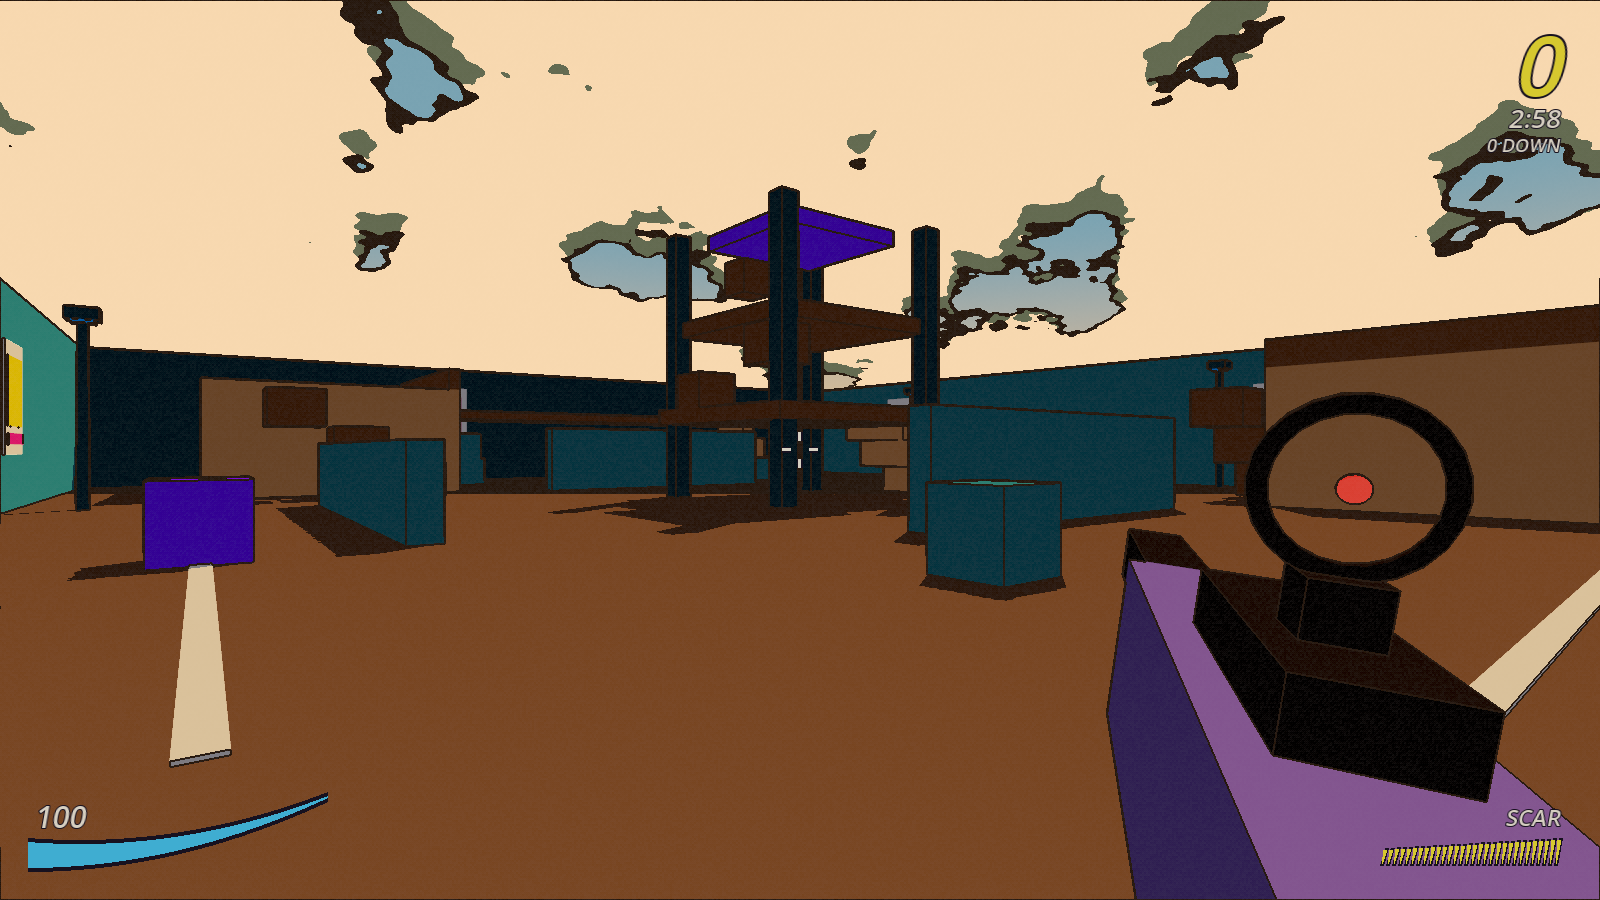
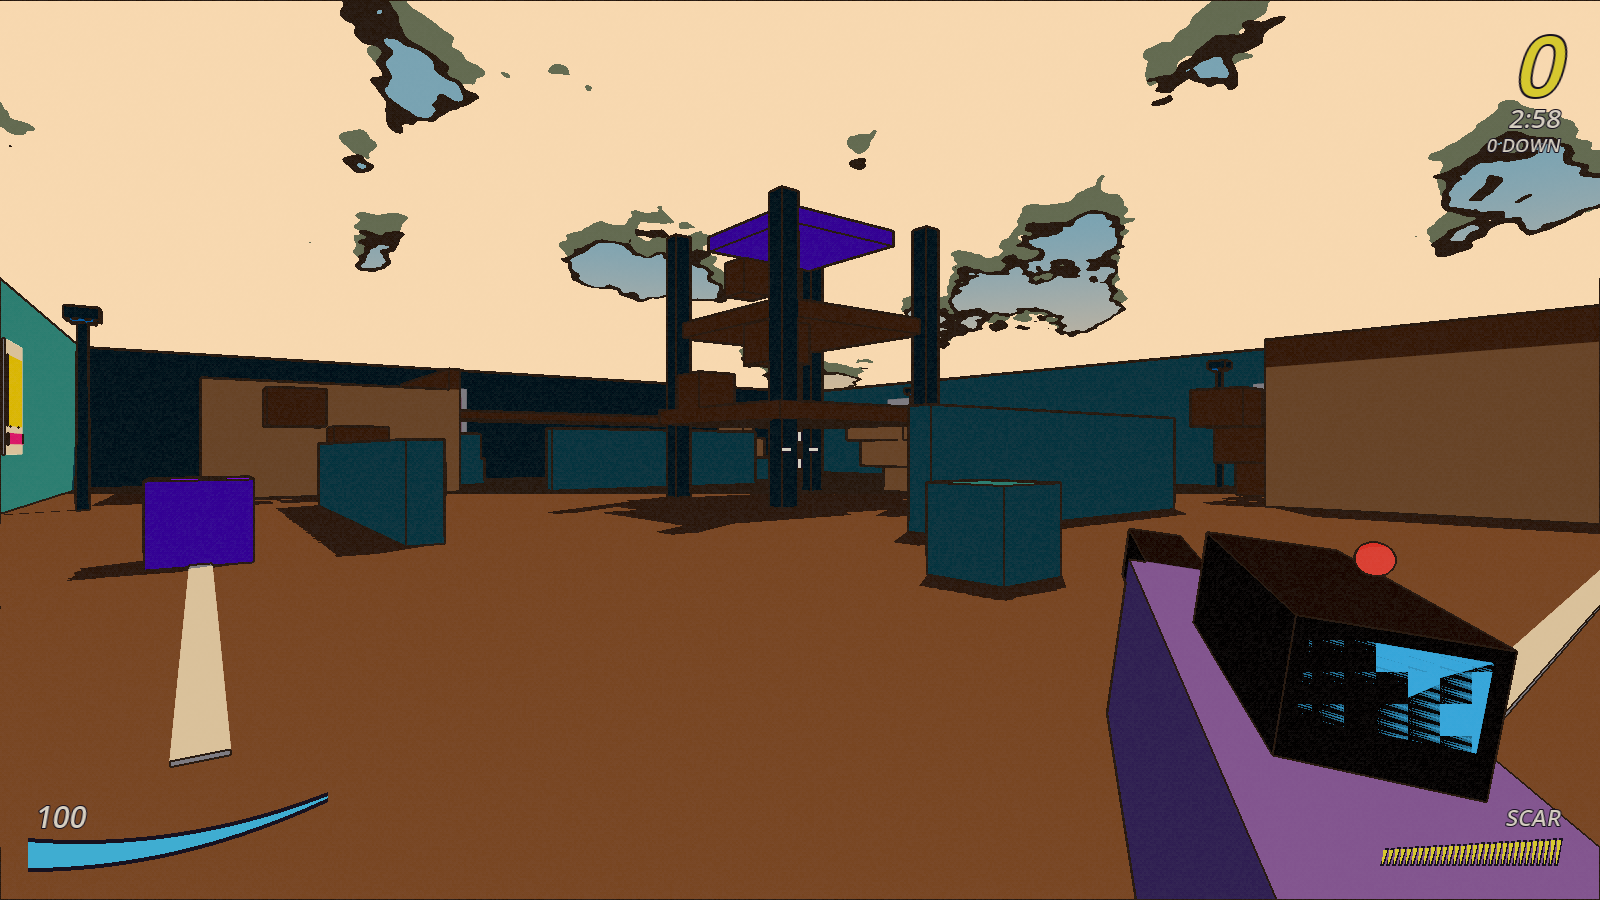
AR keeps its old sight with a red dot above it; wall-clock hitch logging
Sean preferred the boxy sight; the ring is gone, the cyan-window sight is
back as it was with an emissive red dot floating above, and the ADS pose
puts the dot on the camera axis. Frame hitches are measured with the wall
clock (Godot caps the process delta at a few physics steps, which hid a
2 s freeze); warm-cache runs show none at board/arena start, a cold cache
shows one 208 ms compile at the arena start.

Changed region(s): [[0.75, 0.4356, 0.9688, 0.84]]

diff --git a/DECISIONS.md b/DECISIONS.md
@@ -129,3 +129,5 @@ Append-only. One line per assumption: date, the decision, the reason. Newest at 
 - 2026-09-19 — Board space icons are flat stamps on the tile face instead of floating, spinning markers (Sean): a coin disc with rings, a wrapped gift (square with ink straps and a knot), a danger X on a red disc, a "?" lying flat on event tiles, a shield emblem on the safe spot; the start keeps its standing flag. Stamps are children of the tile so the fork hover lift carries them. Dice numbers are bolder: font 96 with a 16 px same-colour outline.
 - 2026-09-19 — Sean: "lets have them floating again, it looks ugly on the spot". The flat stamps lasted one build; the floating, spinning markers (coin, crate, spiked ball, "?" sign, shield dome, start flag) are back exactly as before. The bold die numbers stay.
 - 2026-09-19 — Sean: the far end of the sniper scope is black like the scope (it had reflective glass too); the eyepiece we look through keeps its glass. The AR's ADS was "blue and glitchy": the glowing cyan sight box sat right in front of the eye. It is now a red-dot sight, a ring on a rail with a tiny emissive red dot at its centre, and the ADS pose puts the ring's centre on the camera axis so you look through it; the HUD crosshair hides at full AR ADS.
+- 2026-09-19 — Sean: "i like the old scope of the AR more, all i asked for was a red dot". The ring sight lasted one build; the boxy sight with the cyan window is back as it was, with a tiny emissive red dot floating just above it, and the ADS pose puts that dot on the camera axis with the housing under it so the view is clear.
+- 2026-09-19 — The 2.28 s (board start) and 1.64 s (first arena) stalls in Sean's log did not reproduce: CPU build times are 4–17 ms (board view) and 2–31 ms (match); windowed runs show no hitch at those points with a warm shader cache, and with the cache deleted only a 208 ms first-use compile at the arena start plus the usual 0.7–1.1 s first frame at boot. `Game._process` now logs any wall-clock frame gap over 150 ms with the phase (Godot caps the delta it hands `_process` to a few physics steps, so a delta-based check missed freezes); his next log names the moment if it happens again. No warm-up pass was built: nothing measured justified it.

diff --git a/STATUS.md b/STATUS.md
@@ -272,6 +272,13 @@ Board icons went flat onto the tile faces for one build and came straight back a
 floating, spinning markers on Sean's word ("it looks ugly on the spot"). Die numbers are bold
 (96 px with a 16 px same-colour outline). `board_turn.png`, `board_dice_landed.png`.
 
+Sean's notes on the sights: the sniper scope's far end is black like the scope (the eyepiece
+keeps its glass); the AR keeps its old boxy sight with a red dot floating above it, aligned to
+the aim point at ADS, and the HUD crosshair hides there (`ar_ads.png`, `arena_hip_ar.png`,
+`arena_hip_sniper.png`). His log's 2.3 s / 1.6 s stalls at board and arena start did not
+reproduce (build times 4–31 ms; cold shader cache: one 208 ms hitch at arena start); frames
+over 150 ms wall-clock are now logged with the phase so the next occurrence names itself.
+
 ### Bugs found and fixed today (all measured before and after)
 
 1. Client's view of remote players lagged whole tick loops → 25 % hit confirmation. netfox
